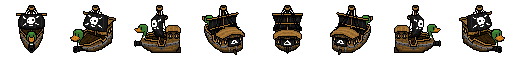
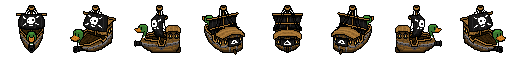
idle animation added for payer ship

Changed region(s): [[0.625, 0.0938, 1.0, 0.8438], [0.7812, 0.0938, 0.8438, 0.3125]]

diff --git a/deltaducks/core/src/com/ducks/sprites/Ship.java b/deltaducks/core/src/com/ducks/sprites/Ship.java
@@ -86,7 +86,9 @@ public class Ship extends Sprite {
 
         for(int i=0; i<8; i++) {
             frames.add(new TextureRegion(getTexture(), i * PIXEL_SHIP_WIDTH, 0, PIXEL_SHIP_WIDTH, PIXEL_SHIP_HEIGHT));
-            idleRolls[i] = new Animation(SHIP_FRAME_DURATION, frames.get(i));
+            frames.add(new TextureRegion(MainGameScreen.resources.getTexture("Wboat"), i * PIXEL_SHIP_WIDTH, 0, PIXEL_SHIP_WIDTH, PIXEL_SHIP_HEIGHT));
+            idleRolls[i] = new Animation(SHIP_FRAME_DURATION, frames);
+            frames.clear();
         }
 
         String[] directionNames = {"south", "southwest", "west", "northwest", "north", "northeast", "east", "southeast"};
@@ -132,35 +134,35 @@ public class Ship extends Sprite {
 
 
         switch (3*(currentDirection[0] + 1) + (currentDirection[1] + 1)) {
-            case 0:
+            case 0: // DOWN LEFT
                 roll = 1;
                 break;
-            case 1:
+            case 1: // LEFT
                 roll = 2;
                 break;
-            case 2:
+            case 2: // UP LEFT
                 roll = 3;
                 break;
-            case 3:
+            case 3: // DOWN
                 roll = 0;
                 break;
-            case 4:
+            case 4: // No Direction
                 if (ROLL_TIMER_SWITCH_TIME-- > 1) {
                     return rolls[roll].getKeyFrame(stateTime, true);
                 }
                 else {
                     return idleRolls[roll].getKeyFrame(stateTime, true);
                 }
-            case 5:
+            case 5: // UP
                 roll = 4;
                 break;
-            case 6:
+            case 6: // DOWN RIGHT
                 roll = 7;
                 break;
-            case 7:
+            case 7: // RIGHT
                 roll = 6;
                 break;
-            case 8:
+            case 8: // UP RIGHT
                 roll = 5;
                 break;
         }
@@ -173,7 +175,7 @@ public class Ship extends Sprite {
 //        stateTimer = currentDirection == previousState ? stateTimer + deltaTime : 0;
 //        previousState = currentDirection;
 //        region = idleRolls[roll].getKeyFrame(stateTime, true);
-        ROLL_TIMER_SWITCH_TIME = 75;
+        ROLL_TIMER_SWITCH_TIME = 100;
         return rolls[roll].getKeyFrame(stateTime, true);
     }
 

diff --git a/deltaducks/core/src/com/ducks/screens/MainGameScreen.java b/deltaducks/core/src/com/ducks/screens/MainGameScreen.java
@@ -62,8 +62,8 @@ public class MainGameScreen implements Screen {
 
     private MyContactListener contactListener;
 
-    private static float ACCELERATION = 1f;
-    private static float MAX_VELOCITY = 4f;
+    private static float ACCELERATION = 4f;
+    private static float MAX_VELOCITY = 16f;
 
     public static Content resources;
     private TextureAtlas atlas;
@@ -85,6 +85,7 @@ public class MainGameScreen implements Screen {
         MainGameScreen.resources.loadTexture("COLLEGE.png", "college");
         MainGameScreen.resources.loadTexture("blank.png", "blank");
         MainGameScreen.resources.loadTexture("ALL DUCK BOAT FINAL.png", "boat");
+        MainGameScreen.resources.loadTexture("ALL DUCK BOAT FINAL WATER.png", "Wboat");
         MainGameScreen.resources.loadTexture("FORWARD MOVE.png", "boat south");
         MainGameScreen.resources.loadTexture("BACK MOVE.png", "boat north");
         MainGameScreen.resources.loadTexture("SIDE MOVE RIGHT.png", "boat east");
